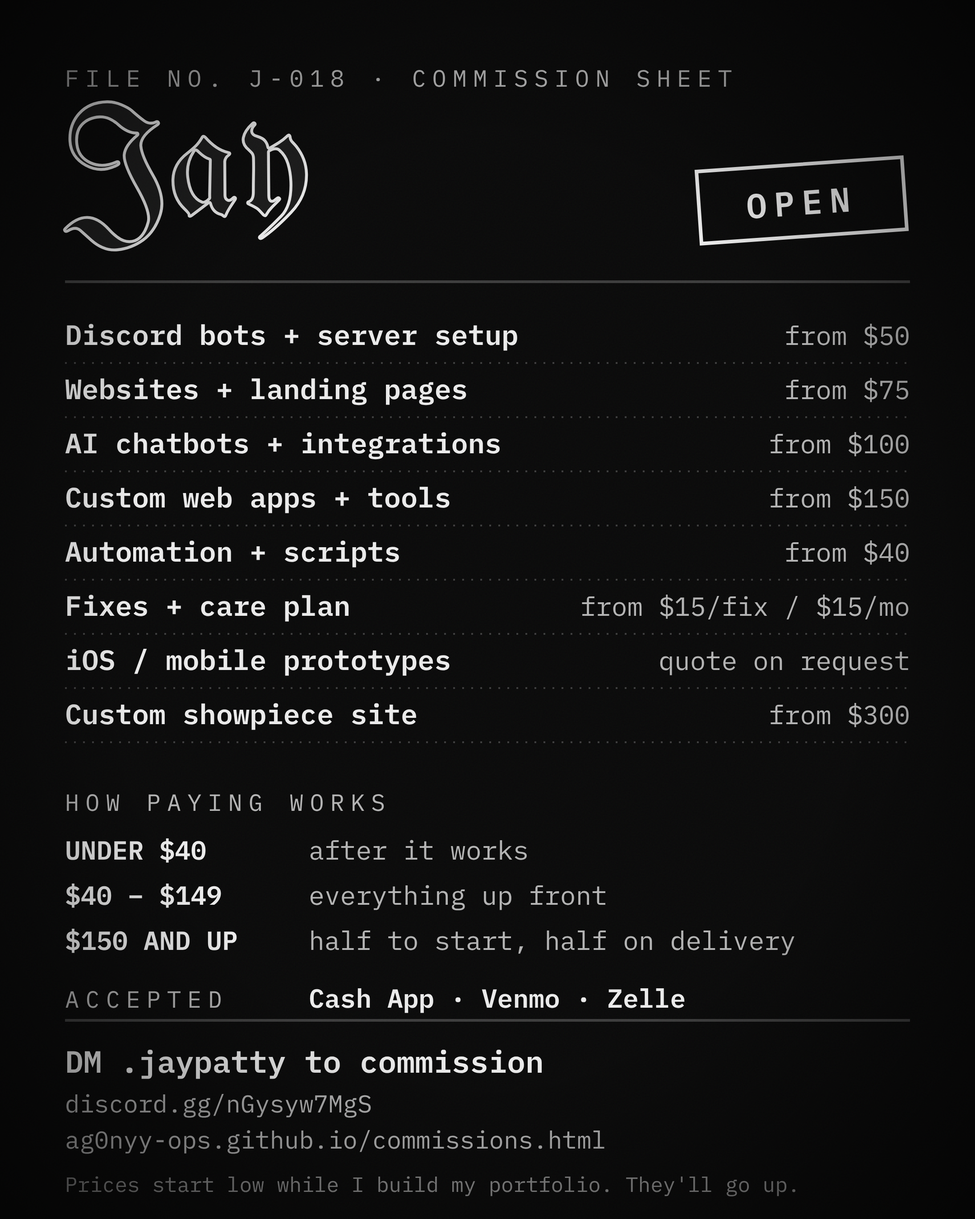
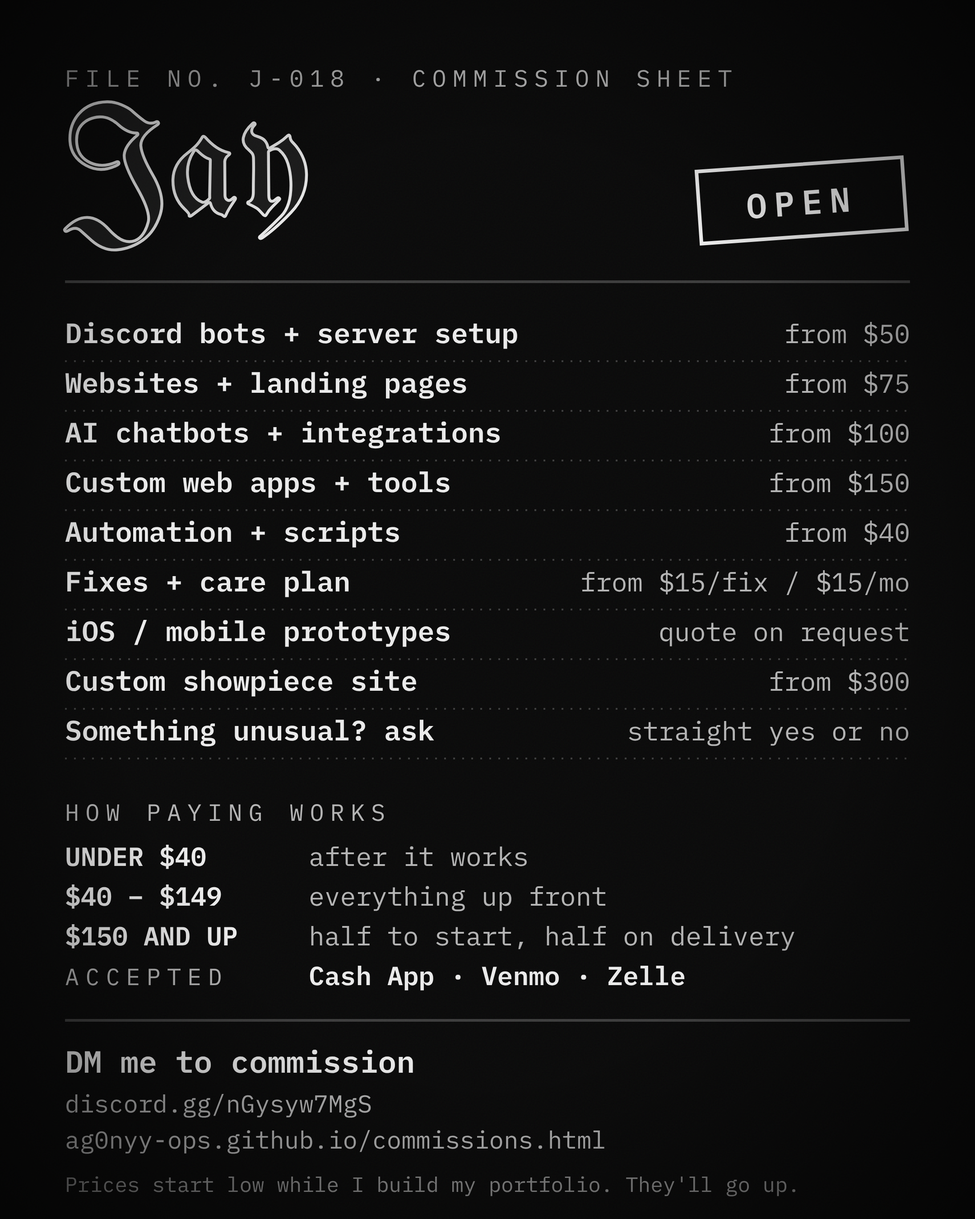
Add an 'unusual jobs' door and say 'DM me' on the sheet and card

diff --git a/tools/make-commission-sheet.js b/tools/make-commission-sheet.js
@@ -33,6 +33,7 @@ const rows = [
   ['Fixes + care plan', price('maintenance').replace(', or ', ' / ').replace(' per fix', '/fix').replace('/mo care plan', '/mo')],
   ['iOS / mobile prototypes', price('mobile')],
   ['Custom showpiece site', price('custom-showpiece')],
+  ['Something unusual? ask', 'straight yes or no'],
 ];
 
 function body() {
@@ -45,29 +46,29 @@ function body() {
 
   // price rows with dotted leaders, like the site's rate sheet
   rows.forEach(([name, amt], i) => {
-    const y = 382 + i * 60;
+    const y = 380 + i * 55;
     s += `<text x="${X0}" y="${y}" font-size="31" font-weight="600" fill="${FG}">${esc(name)}</text>`;
     s += `<text x="${X1}" y="${y}" font-size="29" text-anchor="end" fill="${MUTED}">${esc(amt)}</text>`;
     s += `<path d="M${X0} ${y + 20} H${X1}" stroke="${LINE}" stroke-width="2" stroke-dasharray="2 8"/>`;
   });
 
   // paying
-  const py = 382 + rows.length * 60 + 36;
+  const py = 380 + rows.length * 55 + 34;
   s += `<text x="${X0}" y="${py}" font-size="26" letter-spacing="7" fill="${MUTED}">HOW PAYING WORKS</text>`;
   const pay = [['UNDER $40', 'after it works'], ['$40 – $149', 'everything up front'], ['$150 AND UP', 'half to start, half on delivery']];
   pay.forEach(([a, b], i) => {
-    const y = py + 54 + i * 50;
+    const y = py + 50 + i * 44;
     s += `<text x="${X0}" y="${y}" font-size="29" font-weight="600" fill="${FG}">${esc(a)}</text>`;
     s += `<text x="${X0 + 270}" y="${y}" font-size="29" fill="${MUTED}">${esc(b)}</text>`;
   });
-  const ay = py + 54 + 3 * 50 + 14;
+  const ay = py + 50 + 3 * 44;
   s += `<text x="${X0}" y="${ay}" font-size="26" letter-spacing="7" fill="${MUTED}">ACCEPTED</text>`;
   s += `<text x="${X0 + 270}" y="${ay}" font-size="29" font-weight="600" fill="${FG}">Cash App · Venmo · Zelle</text>`;
 
   // how to book
   const by = H - 168;
   s += `<path d="M${X0} ${by - 52} H${X1}" stroke="${LINE}" stroke-width="3"/>`;
-  s += `<text x="${X0}" y="${by + 6}" font-size="34" font-weight="600" fill="${FG}">DM .jaypatty to commission</text>`;
+  s += `<text x="${X0}" y="${by + 6}" font-size="34" font-weight="600" fill="${FG}">DM me to commission</text>`;
   s += `<text x="${X0}" y="${by + 50}" font-size="27" fill="${MUTED}">discord.gg/nGysyw7MgS</text>`;
   s += `<text x="${X0}" y="${by + 90}" font-size="27" fill="${MUTED}">ag0nyy-ops.github.io/commissions.html</text>`;
   s += `<text x="${X0}" y="${by + 138}" font-size="23" fill="${DIM()}">Prices start low while I build my portfolio. They'll go up.</text>`;

diff --git a/commissions.html b/commissions.html
@@ -174,12 +174,22 @@
         </li>
       </ul>
 
+      <!-- the "if we can figure it out" door: unusual jobs get a straight yes or no, never a promise -->
+      <div class="callout callout--unusual bleed">
+        <div>
+          <p class="callout__k">Something unusual?</p>
+          <a class="callout__big" href="https://discord.gg/nGysyw7MgS" target="_blank" rel="noopener">Send it to me anyway</a>
+          <p class="unusual__text">Embedded systems, hardware, odd integrations, something you can't even name yet. Tell me what you want. If I think I can do it well, I'll quote it. If I can't, I'll say so before you pay anything.</p>
+        </div>
+        <span class="stamp stamp--big">Straight yes or no</span>
+      </div>
+
       <p class="showpiece bleed">
         <span class="showpiece__name">Custom showpiece site <span>(like the home page)</span></span>
         <span class="price__amt"><b data-price="custom-showpiece">quote on request</b></span>
         <a class="price__cta" href="https://discord.gg/nGysyw7MgS" target="_blank" rel="noopener">DM to book <span aria-hidden="true">↗</span></a>
       </p>
-      <p class="scope-note bleed">Final price depends on scope. iOS / mobile prototypes are quoted per project. <a href="https://discord.gg/nGysyw7MgS" target="_blank" rel="noopener">DM me with what you need.</a></p>
+      <p class="scope-note bleed">Final price depends on scope. iOS / mobile prototypes and unusual jobs are quoted per project. <a href="https://discord.gg/nGysyw7MgS" target="_blank" rel="noopener">DM me with what you need.</a></p>
       <script src="assets/data/prices.js?v=8"></script>
     </section>
 
@@ -214,7 +224,7 @@
       <ul class="goodtoknow bleed">
         <li>The timeline is agreed before I start. I won't promise a date I can't keep.</li>
         <li>Prices on this page are starting prices; the quote is what counts.</li>
-        <li>Not on the menu: Minecraft builds. Anything else, ask and I'll tell you straight if it's a yes.</li>
+        <li>Not on the menu: Minecraft builds. Anything else, ask. If I can't do it well I'll say no, not take your money and wing it.</li>
       </ul>
     </section>
 

diff --git a/tools/make-preview-cards.js b/tools/make-preview-cards.js
@@ -97,7 +97,7 @@ const CARDS = [
     <div class="h" style="top:122px">Commissions</div>
     ${[['Discord bots', 'discord-bots'], ['Websites', 'websites'], ['Web apps + tools', 'web-apps'], ['Automation', 'automation']].map(([n, k], i) =>
       `<div class="row" style="top:${300 + i * 118}px;width:430px"><span style="margin:0 0 8px;font-size:21px;letter-spacing:.14em;text-transform:uppercase">${n}</span><b style="font-size:44px;letter-spacing:-.04em">${esc(price(k))}</b></div>`).join('')}
-    <div class="abs" style="left:72px;top:900px;font:600 34px/1.2 M">DM .jaypatty</div>
+    <div class="abs" style="left:72px;top:900px;font:600 34px/1.2 M">DM me</div>
     <div class="abs" style="left:72px;top:950px;font:400 24px/1.3 M;color:#a8a8a8">pay after it works, up front,<br>or half and half, by job size</div>
     <div class="shot" style="left:535px;top:262px;width:470px;transform:rotate(4deg)"><img src="${uri('assets/commissions/sheet.png')}"></div>`],
 

diff --git a/assets/css/style.css b/assets/css/style.css
@@ -1610,6 +1610,9 @@
   .goodtoknow { display: grid; gap: .6rem; max-width: 56rem; padding-left: 1.1rem; list-style: square; color: var(--muted); }
   .goodtoknow li::marker { color: var(--fg); }
 
+  .callout--unusual { margin-top: 0; margin-bottom: clamp(1.5rem, 4vw, 2.5rem); }
+  .unusual__text { max-width: 52ch; margin-top: 1rem; color: var(--muted); }
+
   /* the current page in the top bar stays fully lit */
   .topbar__nav a[aria-current="page"] { opacity: 1; }
 }
